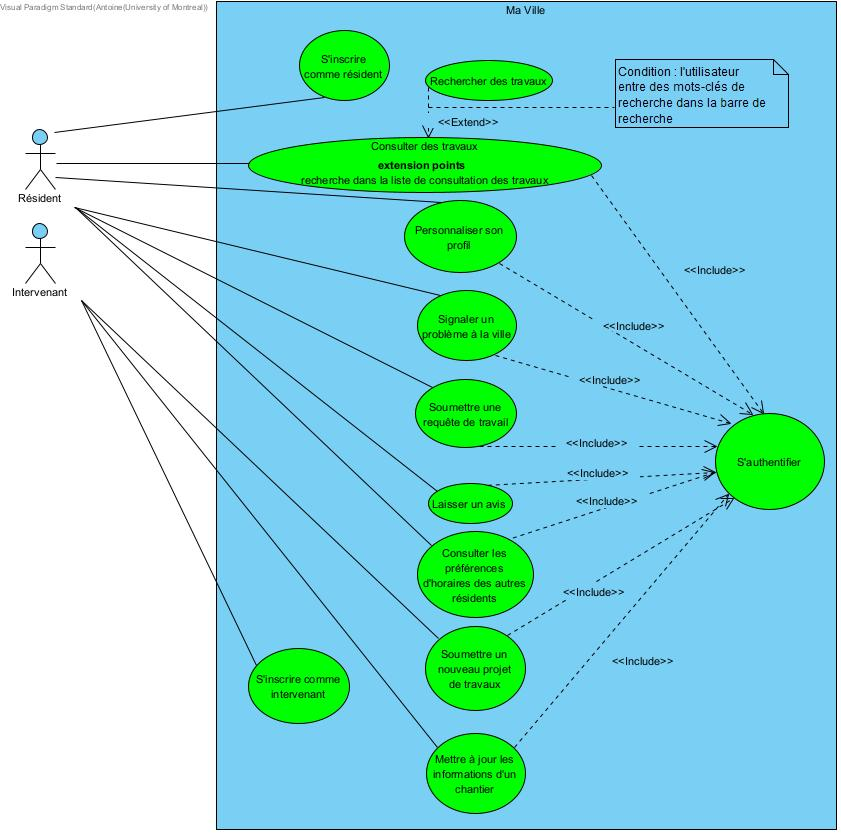
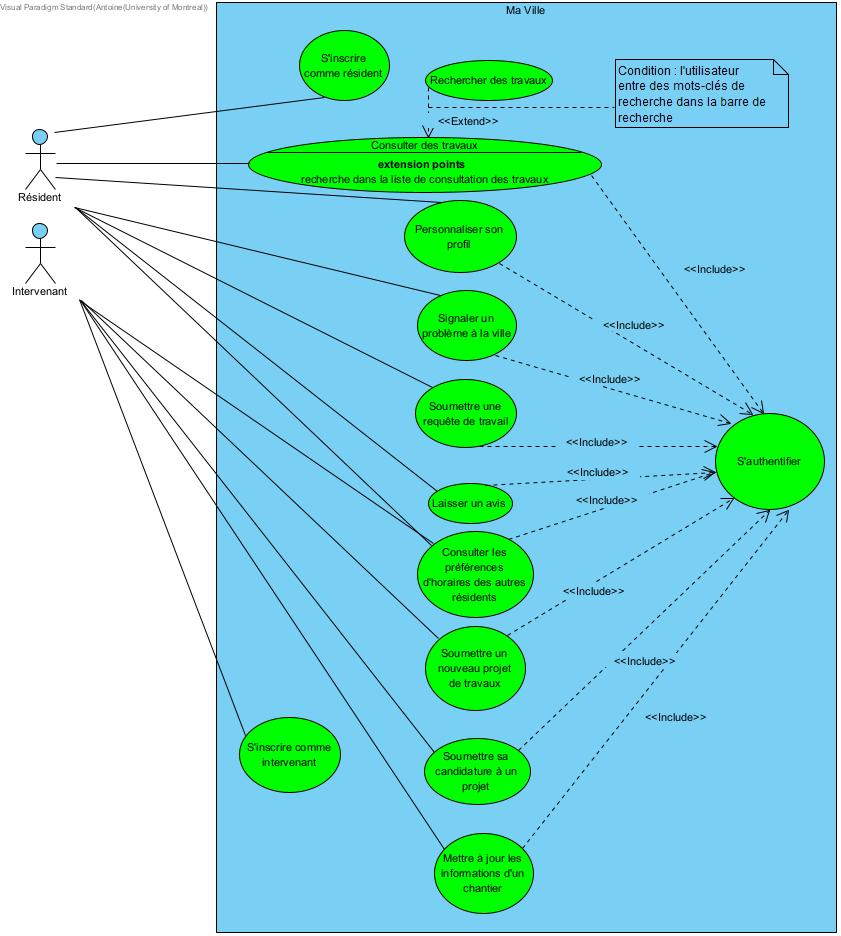
Ajout de scenario pour intervenant

diff --git a/Livrable_1.html b/Livrable_1.html
@@ -1455,6 +1455,185 @@
                         </ol>
                     </div>
                 </div>
+
+                <div class="scenario" id="cu-10">
+                    <div class="scenario-meta">
+                        <h4 class="cu-name">
+                            <strong>CU:</strong> Consulter la liste des requêtes
+                        </h4>
+                        <p class="cu-goal">
+                            <strong>Objectif:</strong> Un intervenant désire consulter la liste des requêtes de travaux
+                        </p>
+
+                        <hr>
+
+                        <div class="cu-part">
+                            <h5 class="cu-part-title">Acteurs</h5>
+                            <ul class="bare-list cu-actors">
+                                <li class="cu-actor">Intervenant (Principal)</li>
+                            </ul>
+                        </div>
+
+                        <div class="cu-part">
+                            <h5 class="cu-part-title">Préconditions</h5>
+                            <ul class="bare-list cu-conditions">
+                                <li class="dash">L'intervenant est inscrit dans le système</li>
+                            </ul>
+                        </div>
+                    </div>
+                    <div class="scenario-main">
+                        <h5 class="scenario-main-title">Scénario principal</h5>
+                        <ol class="scenario-main-steps">
+                            <li class="scenario-main-step">L'intervenant accède à l'option de consultation des requêtes</li>
+                            <li class="scenario-main-step">Le système affiche les différentes requêtes</li>
+                        </ol>
+                    </div>
+                </div>
+
+                <div class="scenario" id="cu-11">
+                    <div class="scenario-meta">
+                        <h4 class="cu-name">
+                            <strong>CU:</strong> Soumettre sa condidature à un projet
+                        </h4>
+                        <p class="cu-goal">
+                            <strong>Objectif:</strong> Un intervenant désire soumettre sa condidature à un projet
+                        </p>
+
+                        <hr>
+
+                        <div class="cu-part">
+                            <h5 class="cu-part-title">Acteurs</h5>
+                            <ul class="bare-list cu-actors">
+                                <li class="cu-actor">Intervenant (Principal)</li>
+                            </ul>
+                        </div>
+
+                        <div class="cu-part">
+                            <h5 class="cu-part-title">Préconditions</h5>
+                            <ul class="bare-list cu-conditions">
+                                <li class="dash">L'intervenant est inscrit dans le système</li>
+                            </ul>
+                        </div>
+
+                        <div class="cu-part">
+                            <h5 class="cu-part-title">Postconditions</h5>
+                            <ul class="bare-list cu-conditions">
+                                <li class="dash">Le système à enregistrer les informations suivantes : la date de début et de fin du projet</li>
+                            </ul>
+                        </div>
+                    </div>
+                    <div class="scenario-main">
+                        <h5 class="scenario-main-title">Scénario principal</h5>
+                        <ol class="scenario-main-steps">
+                            <li class="scenario-main-step">L'intervenant accède à l'option de consultation des requêtes</li>
+                            <li class="scenario-main-step">Le système affiche les requêtes</li>
+                            <li class="scenario-main-step">L'intervenant choisis le projet auquel il désire soumettre sa candidature</li>
+                            <li class="scenario-main-step">Le système demande d'entrer la date de début et la date de fin</li>
+                            <li class="scenario-main-step">L'intervenant entre les dates demandées</li>
+                            <li class="scenario-main-step">Le système enregistre les dates</li>
+                        </ol>
+                    </div>
+                </div>
+                <div class="scenario" id="cu-12">
+                    <div class="scenario-meta">
+                        <h4 class="cu-name">
+                            <strong>CU:</strong> Soumettre un projet de travaux
+                        </h4>
+                        <p class="cu-goal">
+                            <strong>Objectif:</strong> Un intervenant désire soumettre un nouveau projet de travaux
+                        </p>
+
+                        <hr>
+
+                        <div class="cu-part">
+                            <h5 class="cu-part-title">Acteurs</h5>
+                            <ul class="bare-list cu-actors">
+                                <li class="cu-actor">Intervenant (Principal)</li>
+                            </ul>
+                        </div>
+
+                        <div class="cu-part">
+                            <h5 class="cu-part-title">Préconditions</h5>
+                            <ul class="bare-list cu-conditions">
+                                <li class="dash">L'intervenant est iscrit dans le système</li>
+                            </ul>
+                        </div>
+
+                        <div class="cu-part">
+                            <h5 class="cu-part-title">Postconditions</h5>
+                            <ul class="bare-list cu-conditions">
+                                <li class="dash">Le système à enregistrer les informations suivantes : le titre du projet, la description du projet, le type de travaux, les quartiers affectés, les rues affectés, les dates de débuts et de fin, l'horaire des travaux</li>
+                            </ul>
+                        </div>
+                    </div>
+                    <div class="scenario-main">
+                        <h5 class="scenario-main-title">Scénario principal</h5>
+                        <ol class="scenario-main-steps">
+                            <li class="scenario-main-step">L'intervenant accède à l'option de soumission de nouveau projet de travaux</li>
+                            <li class="scenario-main-step">Le système demande d'entrer les informations relatives au projet</li>
+                            <li class="scenario-main-step">L'intervenant entre les informations</li>
+                            <li class="scenario-main-step">Le système valide les informations</li>
+                            <li class="scenario-main-setp">Le systeme valide qu'il n'y a pas de conflit avec les préférences des résidents relativement aux dates</li>
+                            <li class="scenario-main-step">Le système enregistre la soumission</li>
+                        </ol>
+
+                        <div class="scenario-alt">
+                            <h5 class="scenario-alt-title">Scénarios alternatifs</h5>
+                            <ol class="bare-list scenario-alt-steps">
+                                <li class="scenario-alt-step" value="5">
+                                    Il y a un conflit avec une ou des préférences des résidents
+                                    <ol class="bare-list">
+                                        <li value="5">Le système affiche qu'il y a des conflits avec les préférences des résidents</li>
+                                        <li value="5">Le système affiche les différents conflits</li>
+                                        <li value="5">Le scenario reprend à l'étape 6</li>
+                                    </ol>
+                                </li>
+                            </ol>
+                        </div>
+                    </div>
+                </div>
+                <div class="scenario" id="cu-13">
+                    <div class="scenario-meta">
+                        <h4 class="cu-name">
+                            <strong>CU:</strong> Mettre à jour les informations d'un chantier
+                        </h4>
+                        <p class="cu-goal">
+                            <strong>Objectif:</strong> Un intervenant désire mettre à jour les informations d'un chantier
+                        </p>
+
+                        <hr>
+
+                        <div class="cu-part">
+                            <h5 class="cu-part-title">Acteurs</h5>
+                            <ul class="bare-list cu-actors">
+                                <li class="cu-actor">Intervenant (Principal)</li>
+                            </ul>
+                        </div>
+
+                        <div class="cu-part">
+                            <h5 class="cu-part-title">Préconditions</h5>
+                            <ul class="bare-list cu-conditions">
+                                <li class="dash">L'intervenant possède un identifiant de la ville. L'intervenant est associé au projet qu'il désire mettre à jour</li>
+                            </ul>
+                        </div>
+
+                        <div class="cu-part">
+                            <h5 class="cu-part-title">Postconditions</h5>
+                            <ul class="bare-list cu-conditions">
+                                <li class="dash">Le système à enregistrer les informations suivantes : la description du projet, la date de fin prévue et le satut du projet</li>
+                            </ul>
+                        </div>
+                    </div>
+                    <div class="scenario-main">
+                        <h5 class="scenario-main-title">Scénario principal</h5>
+                        <ol class="scenario-main-steps">
+                            <li class="scenario-main-step">L'intervenant accède à la page du projet</li>
+                            <li class="scenario-main-step">L'intervenant choisis l'option de mise à jour du projet</li>
+                            <li class="scenario-main-step">Le systeme affiche les informations que l'intervenant peut modifier</li>
+                            <li class="scenario-main-step">Le système enregistre les informations</li>
+                        </ol>
+                    </div>
+                </div>
                 
                 <h3 class="subsection-title">Diagramme d'activités</h3>
                 <div class="activity">
